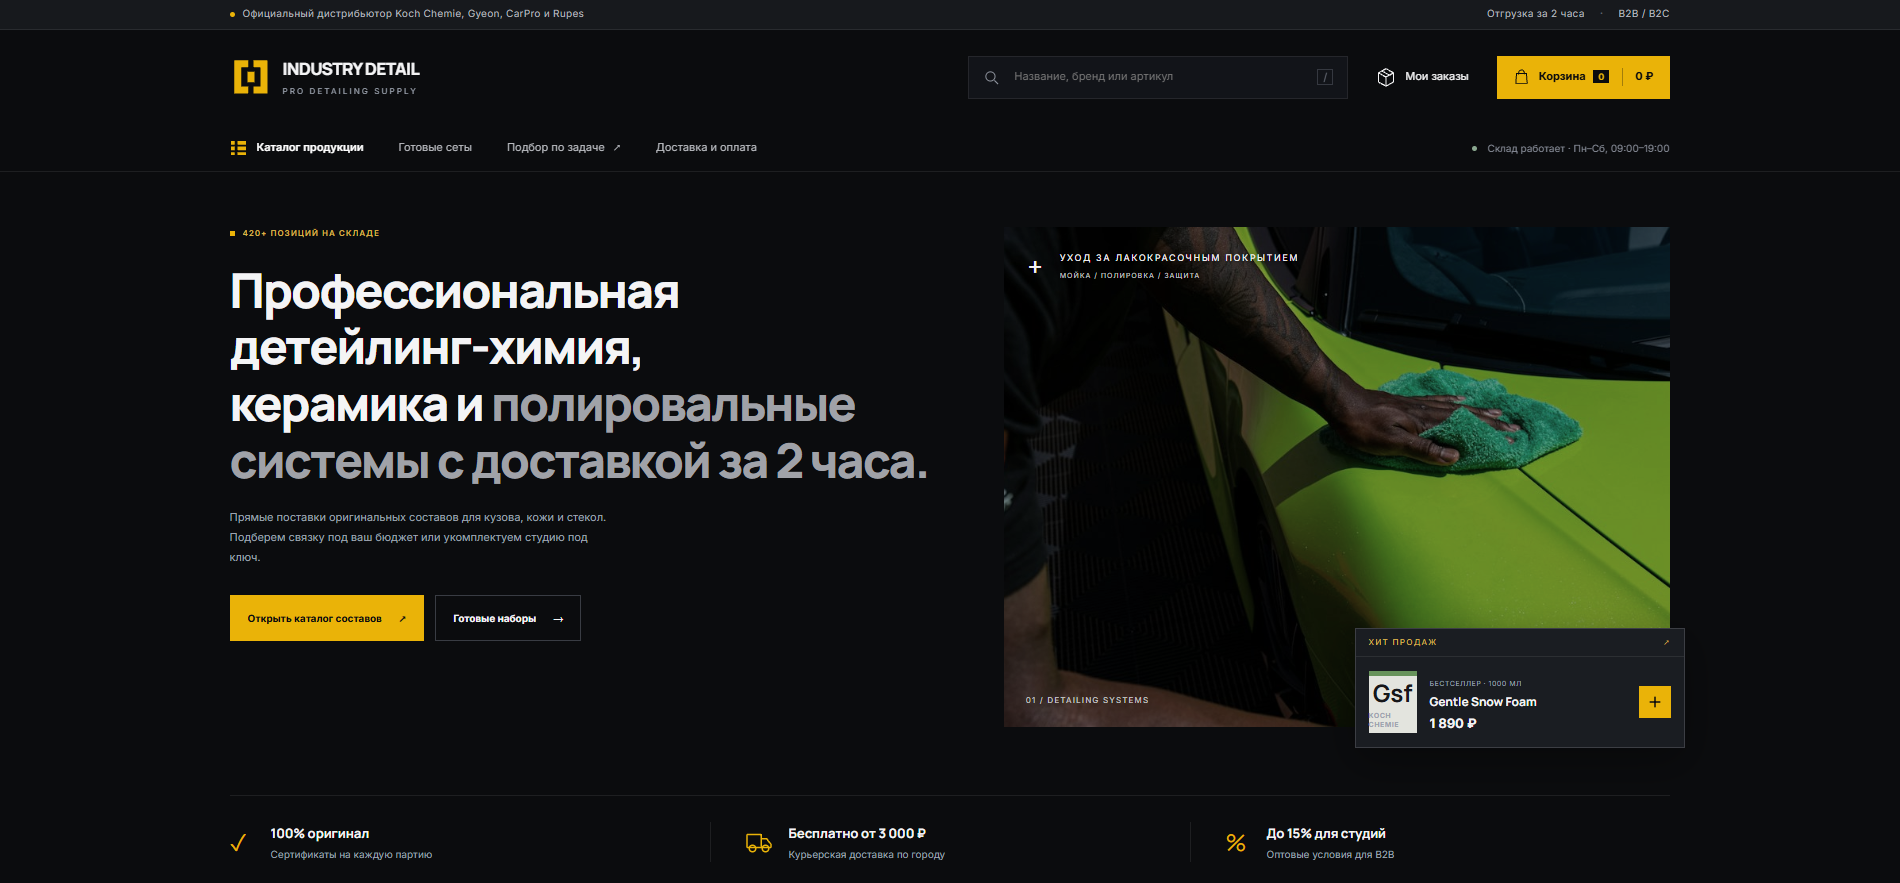
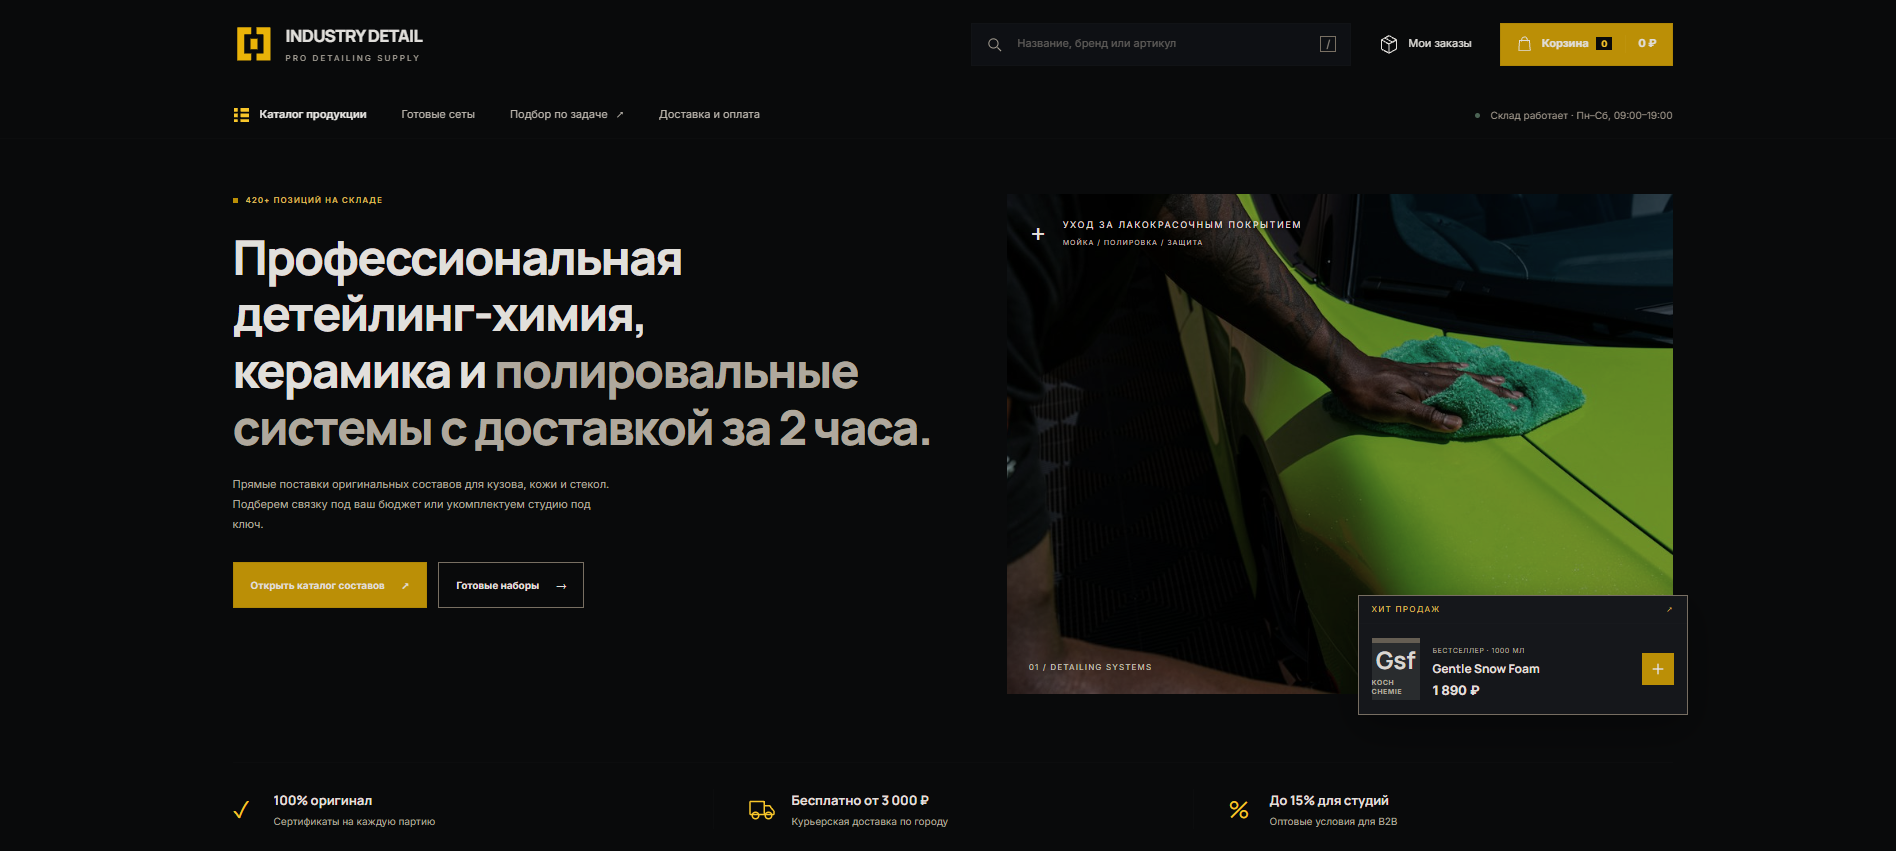
Fill DentaPro preview and replace Industry Detail screenshot

diff --git a/style.css b/style.css
@@ -23,6 +23,7 @@
 /* Оптическое выравнивание подписи относительно логотипа. */
 .logo-caption{position:relative;top:3px}
 .project-preview{display:block}
+.project-preview.has-screenshot[data-project="dentapro"]>img{object-fit:cover;object-position:top}
 .project-content{width:100%}
 .project-content>.project-category{display:block}
 @media(min-width:801px){

diff --git a/script.js b/script.js
@@ -16,6 +16,7 @@
   function createPreview(project) {
     const href = safeURL(project.url);
     const preview = element(href ? 'a' : 'div', 'project-preview');
+    preview.dataset.project = project.id;
     if (href) {
       preview.href = href;
       preview.target = '_blank';
